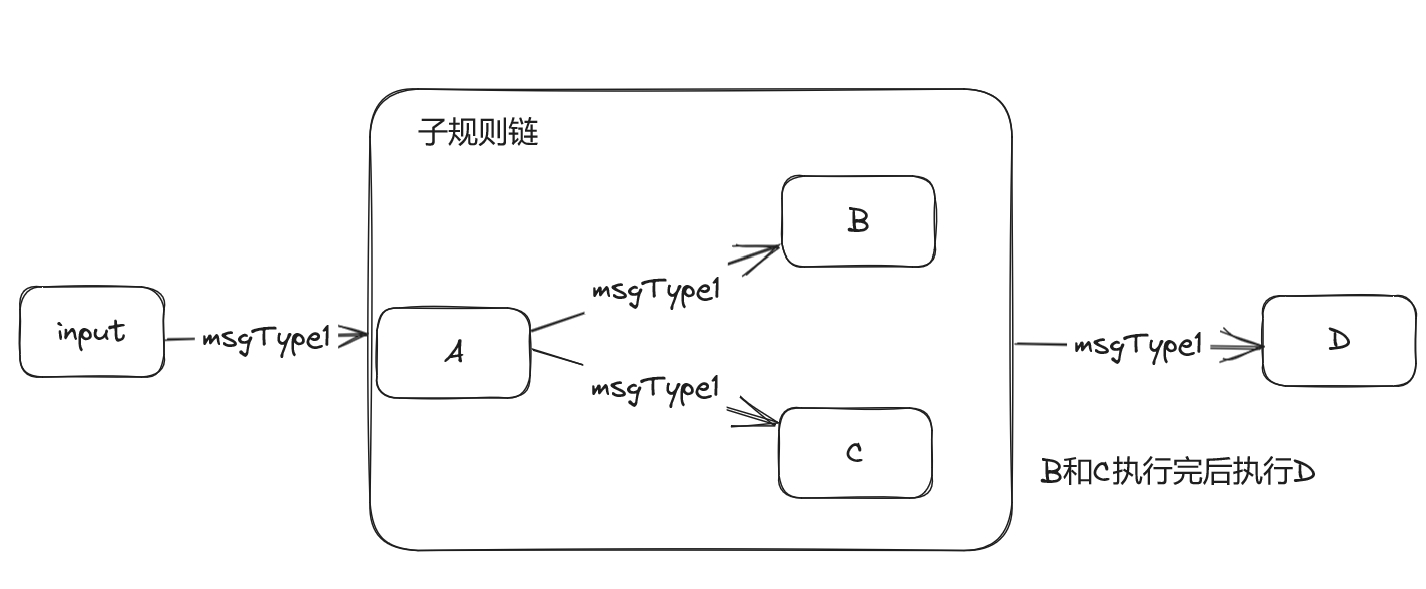
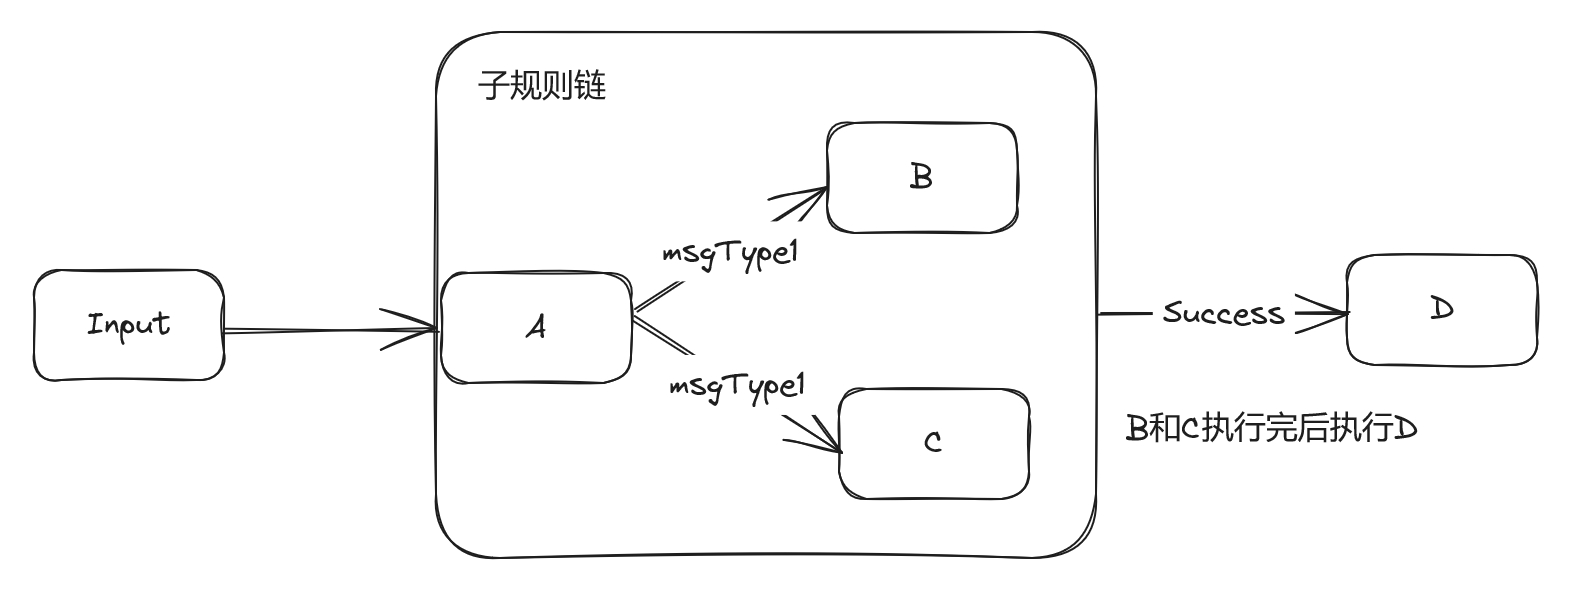
增加子规则链多层嵌套模式

diff --git a/docs/01.指南/02.规则链/01.说明.md b/docs/01.指南/02.规则链/01.说明.md
@@ -57,3 +57,9 @@ permalink: /pages/6f46fc/
 ::: center
 <img align="center" src="/img/chain/5.png"/>
 :::
+
+6.子规则链多层嵌套模式
+
+::: center
+<img align="center" src="/img/chain/6.png"/>
+:::
